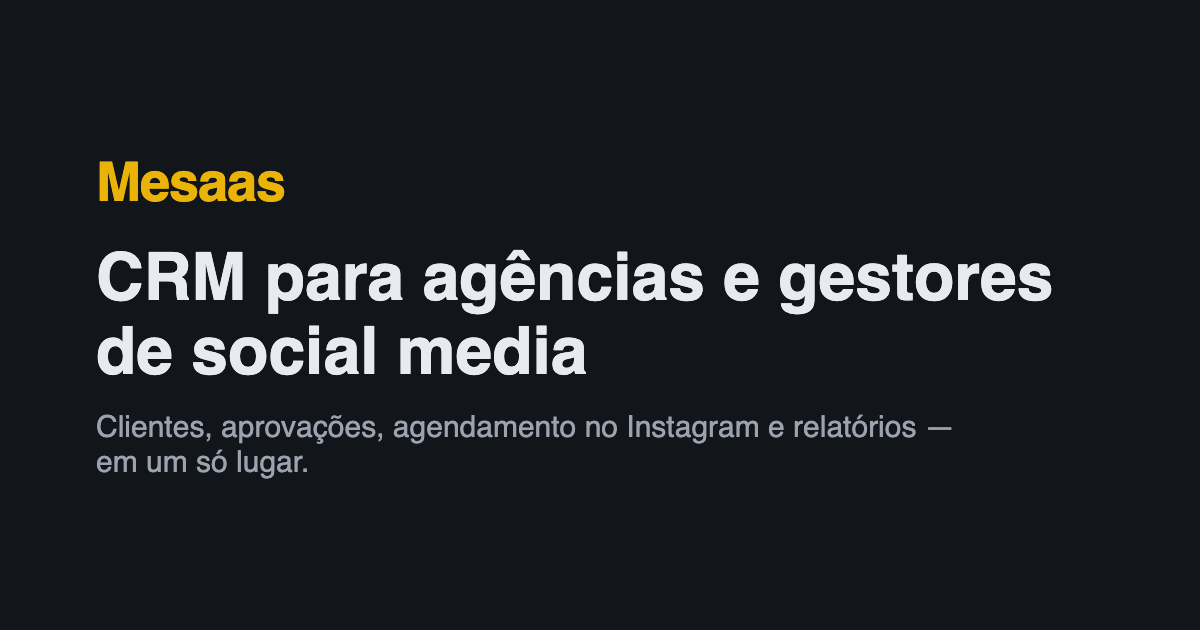
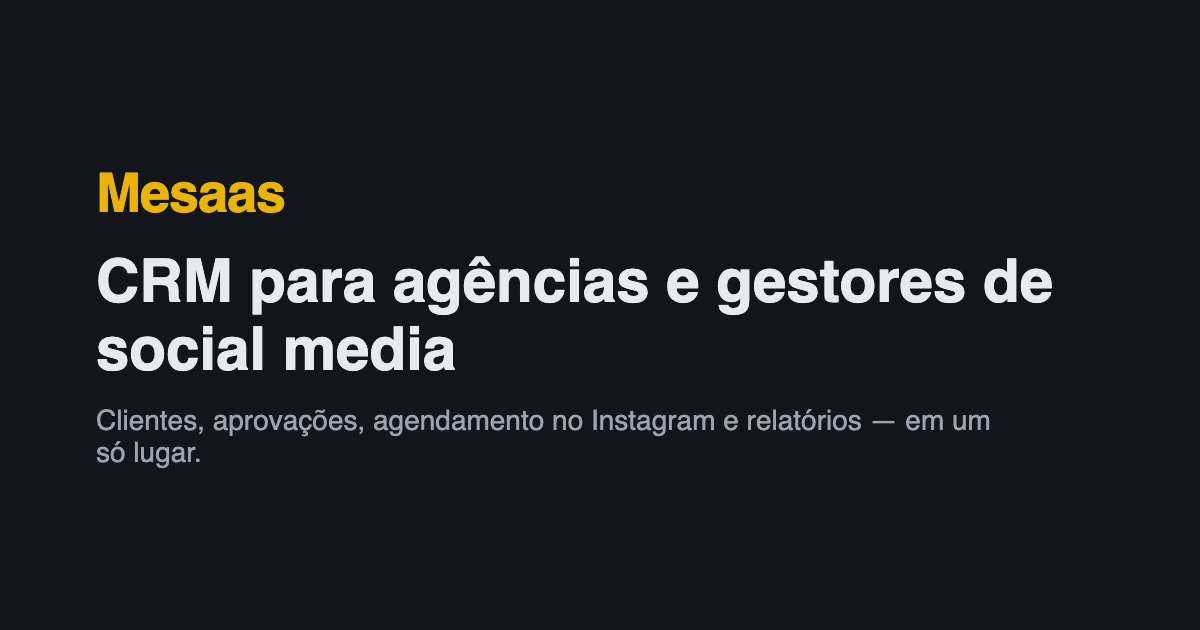
feat(blog): per-post OG images
Six articles advertised og:image at /og/blog/<slug>.png with nothing
there — every WhatsApp/Instagram share would render without an image.
Converts the one-shot default-image generator to TypeScript so it can
import loadPostsFromDisk() and loop over the posts, emitting one
1200x630 card per article plus the regenerated default.

Changed region(s): [[0.0617, 0.3921, 0.8942, 0.6032], [0.0617, 0.6333, 0.8325, 0.754], [0.0617, 0.2413, 0.2467, 0.3619]]

diff --git a/scripts/seo/generate-og-image.ts b/scripts/seo/generate-og-image.ts
@@ -1,0 +1,60 @@
+// Generates the default OG image plus one per blog post (1200x630). Rerun and
+// re-commit when the tagline or a post title changes: npm run og:image
+import { mkdirSync } from 'node:fs';
+import { chromium } from '@playwright/test';
+import { loadPostsFromDisk } from './blog-fs';
+
+const CATEGORY_LABEL: Record<string, string> = { comparativo: 'Comparativo', guia: 'Guia' };
+
+const STYLE = `
+  * { margin: 0; box-sizing: border-box; }
+  body {
+    width: 1200px; height: 630px; display: flex; flex-direction: column;
+    justify-content: center; padding: 96px; background: #12151a; color: #e8eaf0;
+    font-family: 'DM Sans', -apple-system, 'Segoe UI', sans-serif;
+  }
+  .logo { color: #eab308; font-size: 54px; font-weight: 900; letter-spacing: -1px; }
+  .eyebrow { color: #eab308; font-size: 24px; font-weight: 700; letter-spacing: .12em; text-transform: uppercase; }
+  h1 { font-size: 60px; font-weight: 800; line-height: 1.14; margin: 24px 0 20px; max-width: 1000px; }
+  p { font-size: 28px; color: #9ca3af; max-width: 900px; }
+`;
+
+function page(body: string): string {
+  return `<!doctype html><html><head><meta charset="utf-8"><style>${STYLE}</style></head><body>${body}</body></html>`;
+}
+
+function esc(s: string): string {
+  return s.replace(/[&<>]/g, (c) => ({ '&': '&amp;', '<': '&lt;', '>': '&gt;' })[c] as string);
+}
+
+const browser = await chromium.launch();
+const tab = await browser.newPage({ viewport: { width: 1200, height: 630 } });
+
+async function shoot(html: string, path: string): Promise<void> {
+  await tab.setContent(html, { waitUntil: 'networkidle' });
+  await tab.screenshot({ path });
+  console.log(`Wrote ${path}`);
+}
+
+await shoot(
+  page(
+    `<div class="logo">Mesaas</div>` +
+      `<h1>CRM para agências e gestores de social media</h1>` +
+      `<p>Clientes, aprovações, agendamento no Instagram e relatórios — em um só lugar.</p>`,
+  ),
+  'public/og-image.png',
+);
+
+mkdirSync('public/og/blog', { recursive: true });
+for (const post of loadPostsFromDisk()) {
+  await shoot(
+    page(
+      `<div class="eyebrow">${esc(CATEGORY_LABEL[post.category] ?? 'Blog')}</div>` +
+        `<h1>${esc(post.h1)}</h1>` +
+        `<p>Mesaas · Blog</p>`,
+    ),
+    `public/og/blog/${post.slug}.png`,
+  );
+}
+
+await browser.close();

diff --git a/apps/crm/src/content/__tests__/blog-og.test.ts b/apps/crm/src/content/__tests__/blog-og.test.ts
@@ -1,0 +1,23 @@
+import { existsSync, readdirSync, readFileSync } from 'node:fs';
+import { describe, expect, test } from 'vitest';
+import { parsePost } from '../blog.schema';
+
+const DIR = 'apps/crm/src/content/blog';
+const posts = readdirSync(DIR)
+  .filter((f) => f.endsWith('.md'))
+  .map((f) => parsePost(readFileSync(`${DIR}/${f}`, 'utf8'), f.replace(/\.md$/, '')));
+
+describe('blog OG images', () => {
+  test('every post has a committed OG image', () => {
+    for (const post of posts) {
+      expect(
+        existsSync(`public/og/blog/${post.slug}.png`),
+        `missing OG image for ${post.slug} — run npm run og:image`,
+      ).toBe(true);
+    }
+  });
+
+  test('the site-wide default image still exists', () => {
+    expect(existsSync('public/og-image.png')).toBe(true);
+  });
+});
